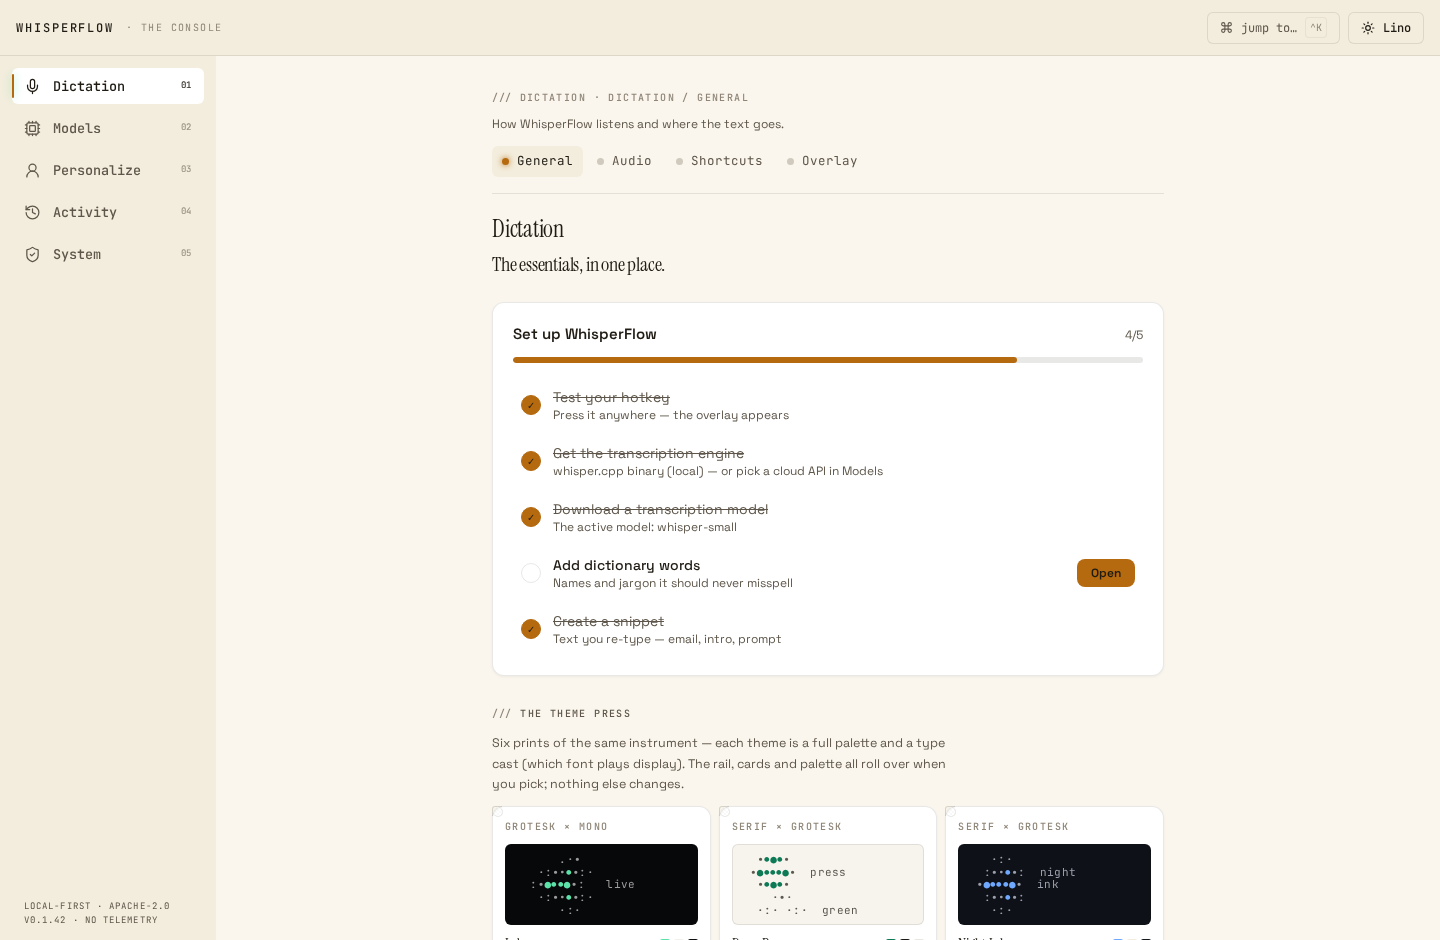
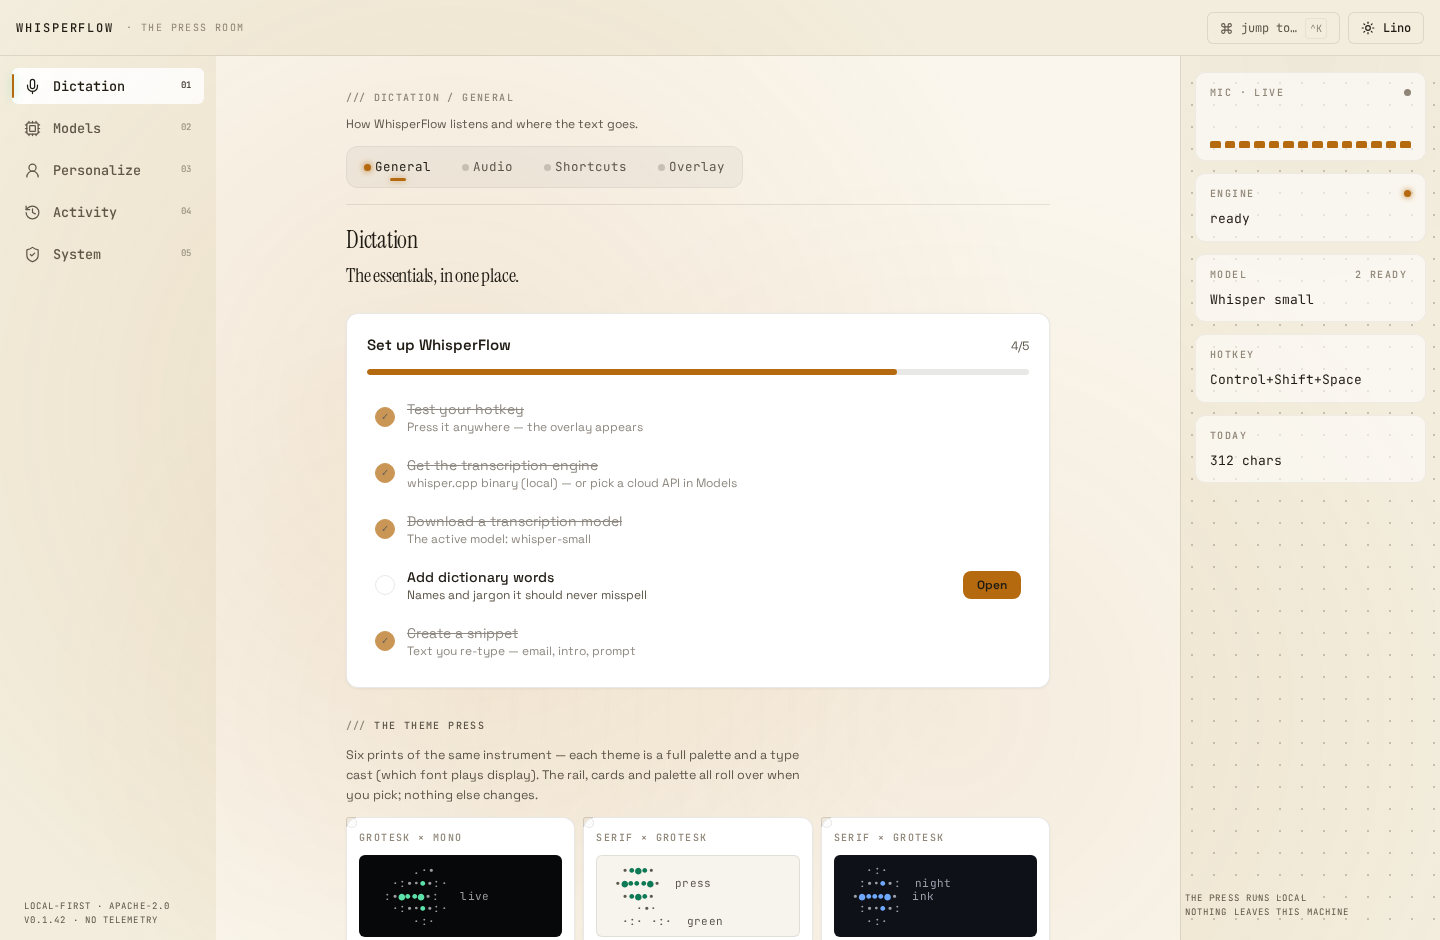
docs: session 14 memory + v0.1.48 report + QA shots

diff --git a/MEMORY.md b/MEMORY.md
@@ -144,3 +144,60 @@ WAR STORIES:
 NEXT QUEUE: History mode-split DitherBars, Models tier dots, overlay
 trace in theme accent, website charts on DitherCanvas, MOTION.md entry
 for the 620ms sweep + 150ms word-in.
+
+## Session 14 (2026-11-21) — v0.1.48 "THE PRESS ROOM" — RELEASED ✅
+
+User: desktop app still old design — study reactbits/canvasui/21st.dev,
+full redesign, max creativity. RESEARCH MINED:
+- canvasui.dev: 38 comps (server-rendered 3-4MB pages ARE scrapable:
+  /docs/components/<name> gives description+source; ascii-sweep, dithered/
+  ink/topographic-object, glyph-rain, decrypt-reveal, canvas, frost, peel)
+- reactbits: full catalog via GitHub API DavidHDev/react-bits
+  src/content/{Backgrounds,Components,TextAnimations,Hooks} — 66/49/33
+- 21st.dev: community counts (2k+ buttons, 1.7k cards)
+
+VLM AUDIT OF OUR OWN CONSOLE drove the spec (not the libraries): dead
+sidebar, half-empty content col, NO live data, weak CTA hierarchy, 28px
+tabs, zero motion. Spec: scripts/v2-design-spec.md.
+
+**v0.1.48 SHIPPED** (PR #15, CI 5/5 first try, main @ 36319ec):
+- THE PRESS KIT apps/desktop/src/renderer/src/shared/presskit.tsx (zero
+  deps): PrintButton (ink-flood L→R roller pass + gloss sweep + stamp
+  press; variants fill/plate/ghost/danger), SpotlightCard (rAF-eased
+  cursor ink wash, lags like wet ink; SPREADS ...rest for data-*), PillNav
+  (measured sliding indicator), DecryptText (charset ·:•%#%@&), CountUp,
+  Magnetic, AuroraField (3 lissajous washes, alpha ≤.10), DotRadar,
+  AnimatedRows (--pk-row-delay stagger). All honor prefers-reduced-motion.
+- 3-PANE SHELL App.tsx: rail + sheet (AuroraField fixed inset-0 behind,
+  max-w-3xl) + LIVE RAIL 260px xl:flex (mic halftone meter — GATED behind
+  navigator.permissions.query so settings never prompts for mic; engine
+  decrypt label; model from config.stt.modelId + ModelCatalogEntry.name;
+  today from history[0].finalText length).
+- ui.tsx: Button wraps PrintButton (primary→fill, ghost→plate), Card wraps
+  SpotlightCard, PageHeader H1 decrypts. KEY: SpotlightCard needs prop
+  spread or data-stage-row cascade breaks.
+- GeneralTab: checklist rows = full-width <button> with revisit affordance;
+  ChangeRow = pk-btn-plate.
+- Onboarding: aurora + DecryptText headings (regex decoration of h1s broke
+  JSX twice — duration={560} braces + template literal attr; check after!).
+
+BUGS CAUGHT BY VLM/PIXEL LOOP (all fixed + re-measured):
+1. Aurora invisible: alpha .045 too quiet → .10/.07/.06; verified spread
+   29.6 luminance across columns.
+2. Meter read as dashed line: 8% floor × 34px = 2.7px bars → floor .18 +
+   40px height; verified 7 distinct accent rows.
+3. Spotlight verified localized (26.4 vs 17.8 far side).
+
+WAR STORIES:
+1. electron-vite build "fails" when run from repo root without cd
+   apps/desktop — shell cwd resets between commands; ALWAYS cd in the same
+   command chain. console-qa then screenshots STALE assets silently!
+2. QA script was waiting on body.light (v0.1.44 skin) — themes are
+   data-theme now; waitForFunction on documentElement.dataset.theme.
+3. VLM "checklist out of order" = stub-data artifact (fake config had
+   snippet done but not dictionary) — not a UI bug; verify against harness
+   data before "fixing".
+
+NEXT QUEUE: FieldFX (asciify inputs), GlyphRain error states, topographic
+Insights background, aurora on ThemePicker specimens, MOTION.md entry for
+press kit envelopes.

diff --git a/download/V0.1.48-PRESS-ROOM.md b/download/V0.1.48-PRESS-ROOM.md
@@ -1,0 +1,68 @@
+# WhisperFlow — v0.1.48 "The Press Room"
+
+You asked why the desktop app still had the old button design, colors,
+layout — and pointed at reactbits.dev, canvasui.dev, 21st.dev: the world
+already has better components, study them, then make our own. Full
+creativity. That's exactly what shipped: the console is completely
+redesigned, every screen, every control.
+
+## The research
+
+Mined all three libraries:
+- **canvasui.dev**: all 38 components (ascii-sweep, dithered-object,
+  ink-object, topographic-object, glyph-rain, decrypt-reveal, canvas
+  material, frost, peel...) — half of them already speak our dialect
+- **reactbits.dev**: full GitHub catalog — 66 backgrounds, 49 components,
+  33 text animations, hooks
+- **21st.dev**: 2000+ community components scanned
+
+Then a VLM design critique of our own v0.1.47 console found the real
+gaps: dead sidebar space, half-empty content column, no live data anywhere
+on screen, weak CTA hierarchy, 28px tabs, zero motion layer.
+
+## The translation
+
+Nothing installed. The grammar of the free world, spoken in our print
+language — **the press kit** (9 components, zero deps, all authored):
+
+| Component | Lineage grammar | Our print translation |
+|---|---|---|
+| PrintButton | specular/shiny buttons | ink floods the label L→R (a roller pass) + specular sweep + stamp press |
+| SpotlightCard | spotlight cards | cursor-tracking ink wash that lags like wet ink |
+| PillNav | pill/gooey navs | 40px tabs, sliding measured indicator |
+| DecryptText | decrypt text | resolves from a printer's charset: ·:•%#%@& |
+| CountUp | odometer counters | tabular-num mono digits |
+| Magnetic | magnetic hover | 2px lean (print restraint) |
+| AuroraField | aurora backgrounds | two-ink lissajous wash at wash-level alpha |
+| DotRadar | dot grids | dots grow near the cursor — living paper |
+| AnimatedRows | animated lists | 40ms staggered settle per route |
+
+## The new console — "the press room"
+
+- **Three panes**: channel rail (magnetic items) · the sheet (content over
+  the aurora, max-width up, cards spotlight, H1 decrypts per route) · the
+  **LIVE rail** — halftone mic meter, engine state, model + ready count,
+  hotkey, today's chars. Hidden under 1100px.
+- **Mic meter never prompts**: only runs when permission is already
+  granted — first-run onboarding does the asking.
+- **SetupChecklist rebuilt**: full-row interactive, completed rows
+  compact with "revisit →", Change buttons are ink-flood plates.
+- **Onboarding**: aurora backdrop, decrypt headings on every step.
+
+## The verification loop (VLM audit, all closed)
+
+- aurora not painting → fixed + measured (luminance spread 29.6)
+- meter read as a dashed line → fixed + measured (7 distinct bars)
+- spotlight → measured localized (26.4 near vs 17.8 far)
+- ink-flood on hover → VLM-confirmed
+- breadcrumb duplication, tab underline, microcopy contrast → fixed
+- 12-shot console harness + 6-theme suite; daylight + onboarding final
+  checks: "polished, no defects"
+
+CI 5/5 first try. Release live; LATEST FEED = v0.1.48.
+main @ 36319ec.
+
+## Screens
+10-pressroom-general-wide · 11-models · 12-insights · 13-btn-inkflood-hover ·
+14-card-spotlight · 05/06 daylight · 07 onboarding · t-* all six themes
+(all in download/console-qa/)
